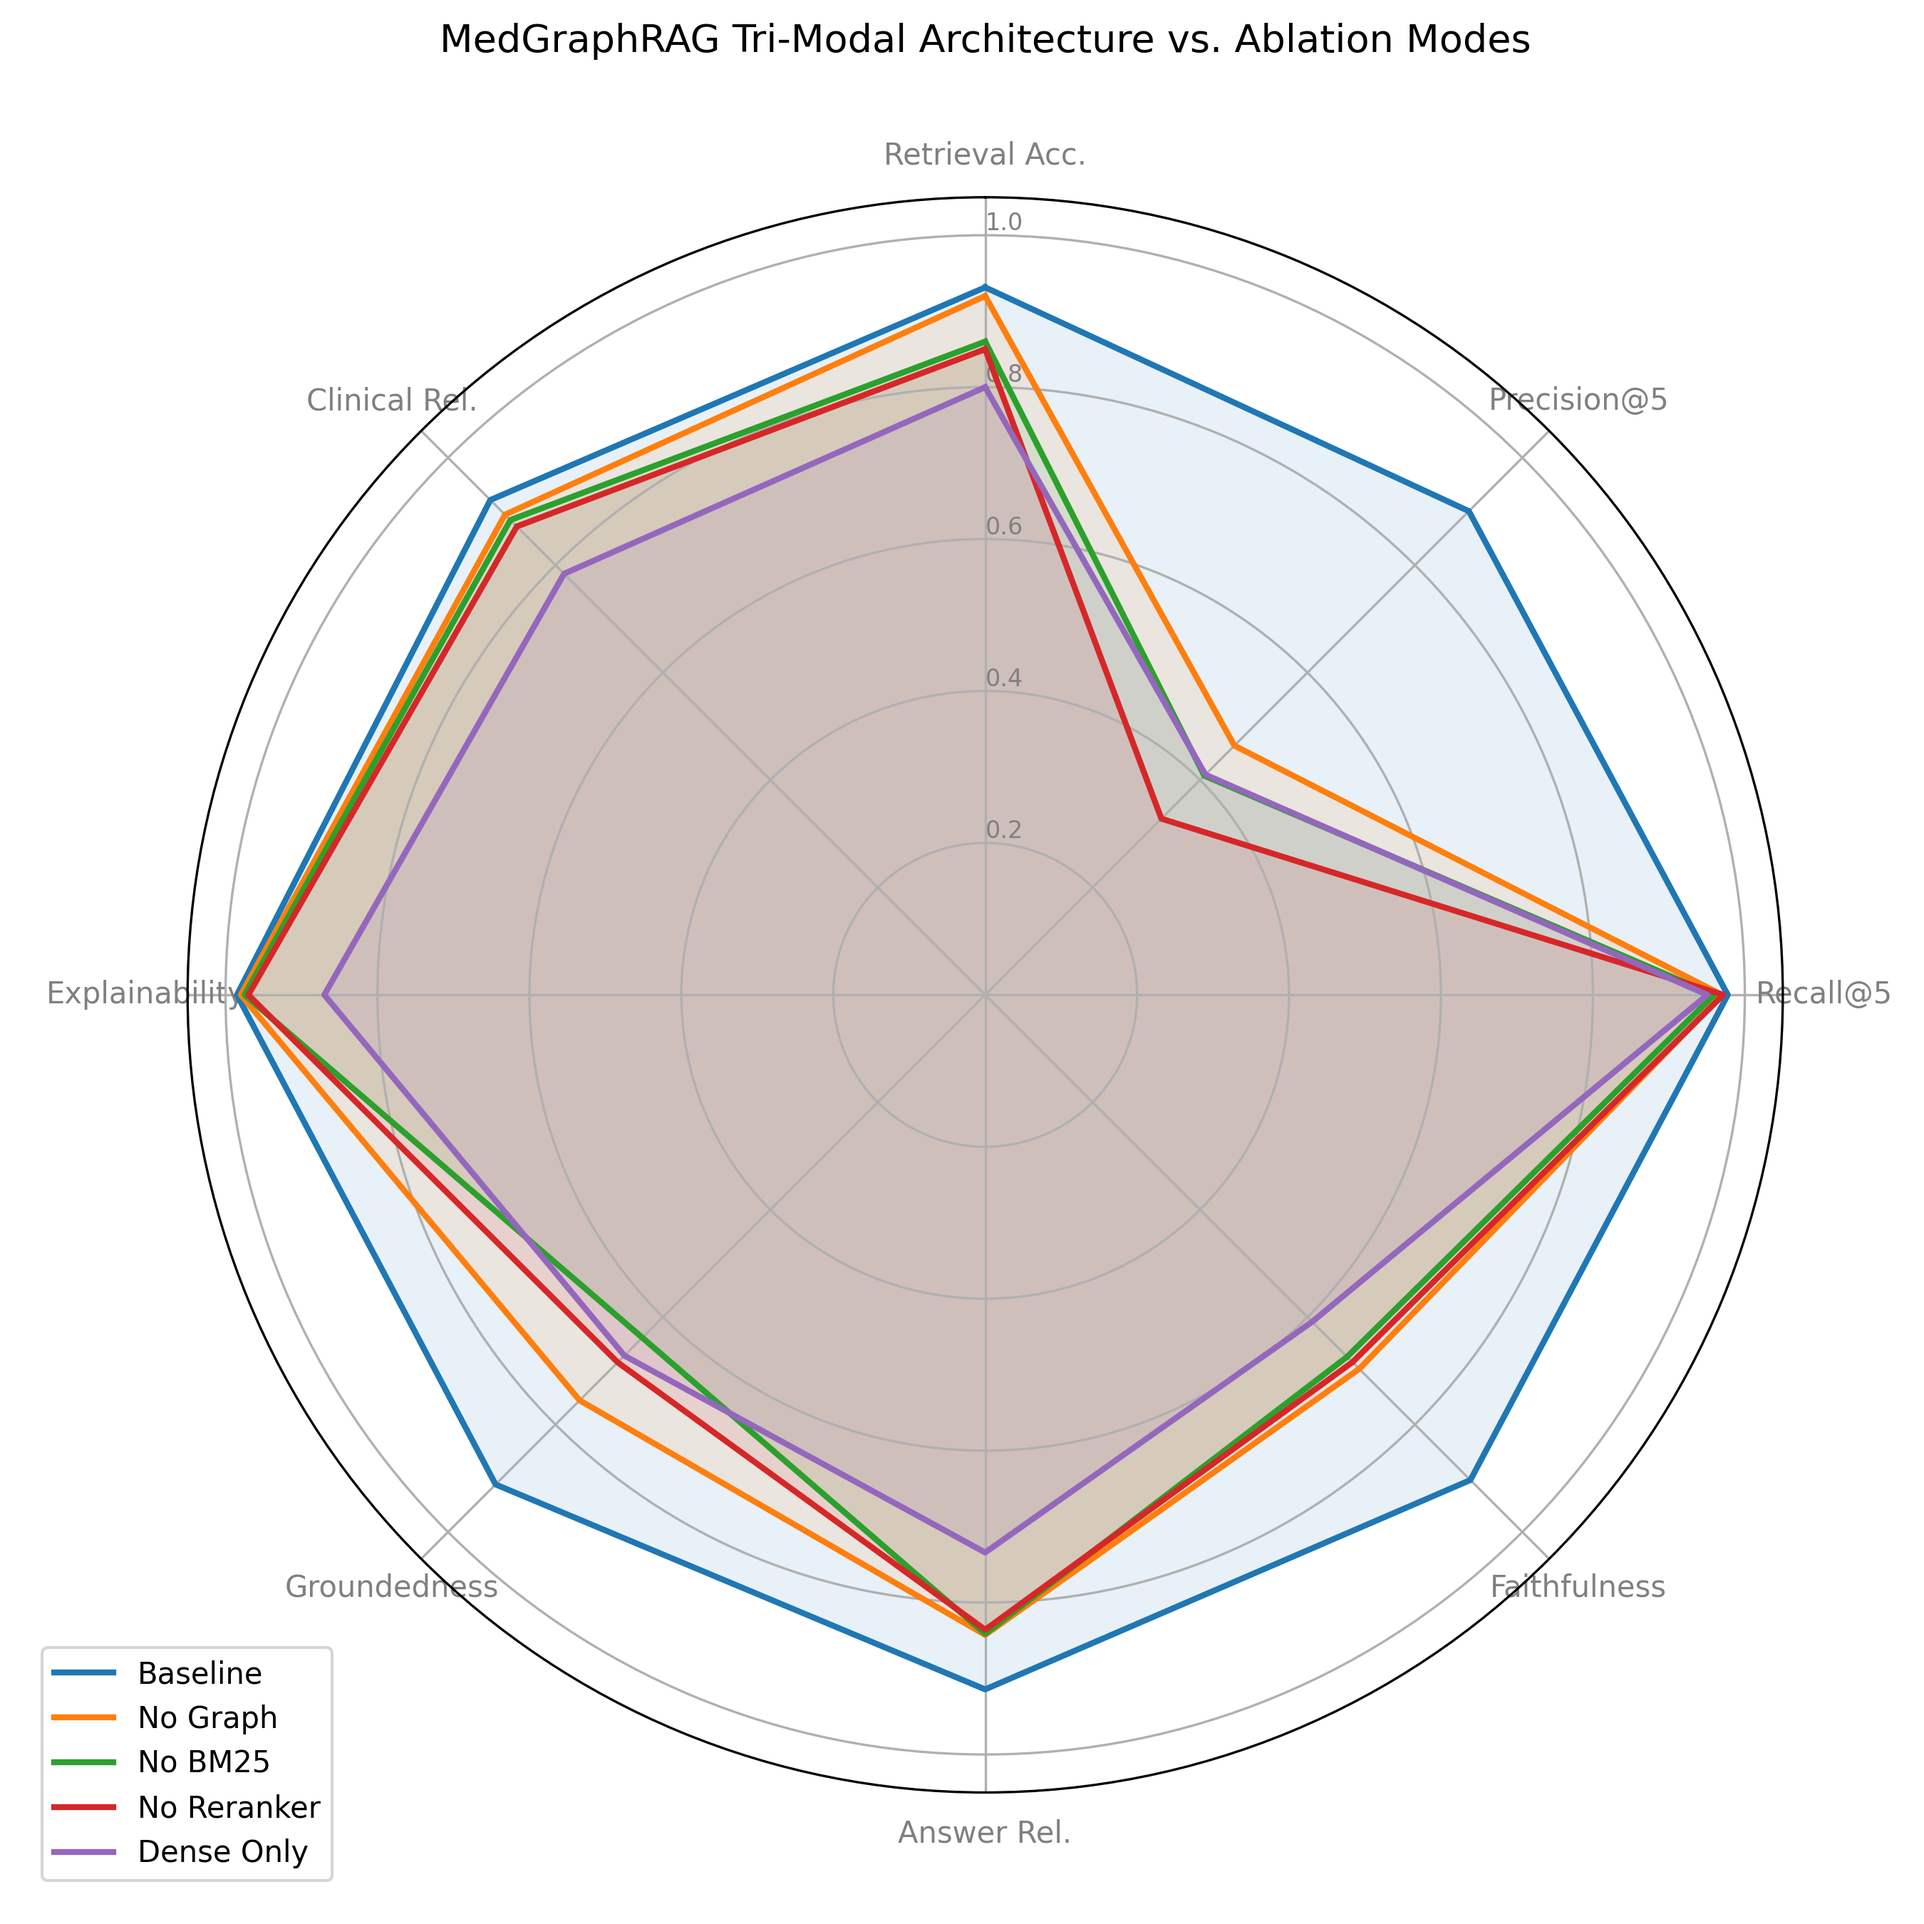
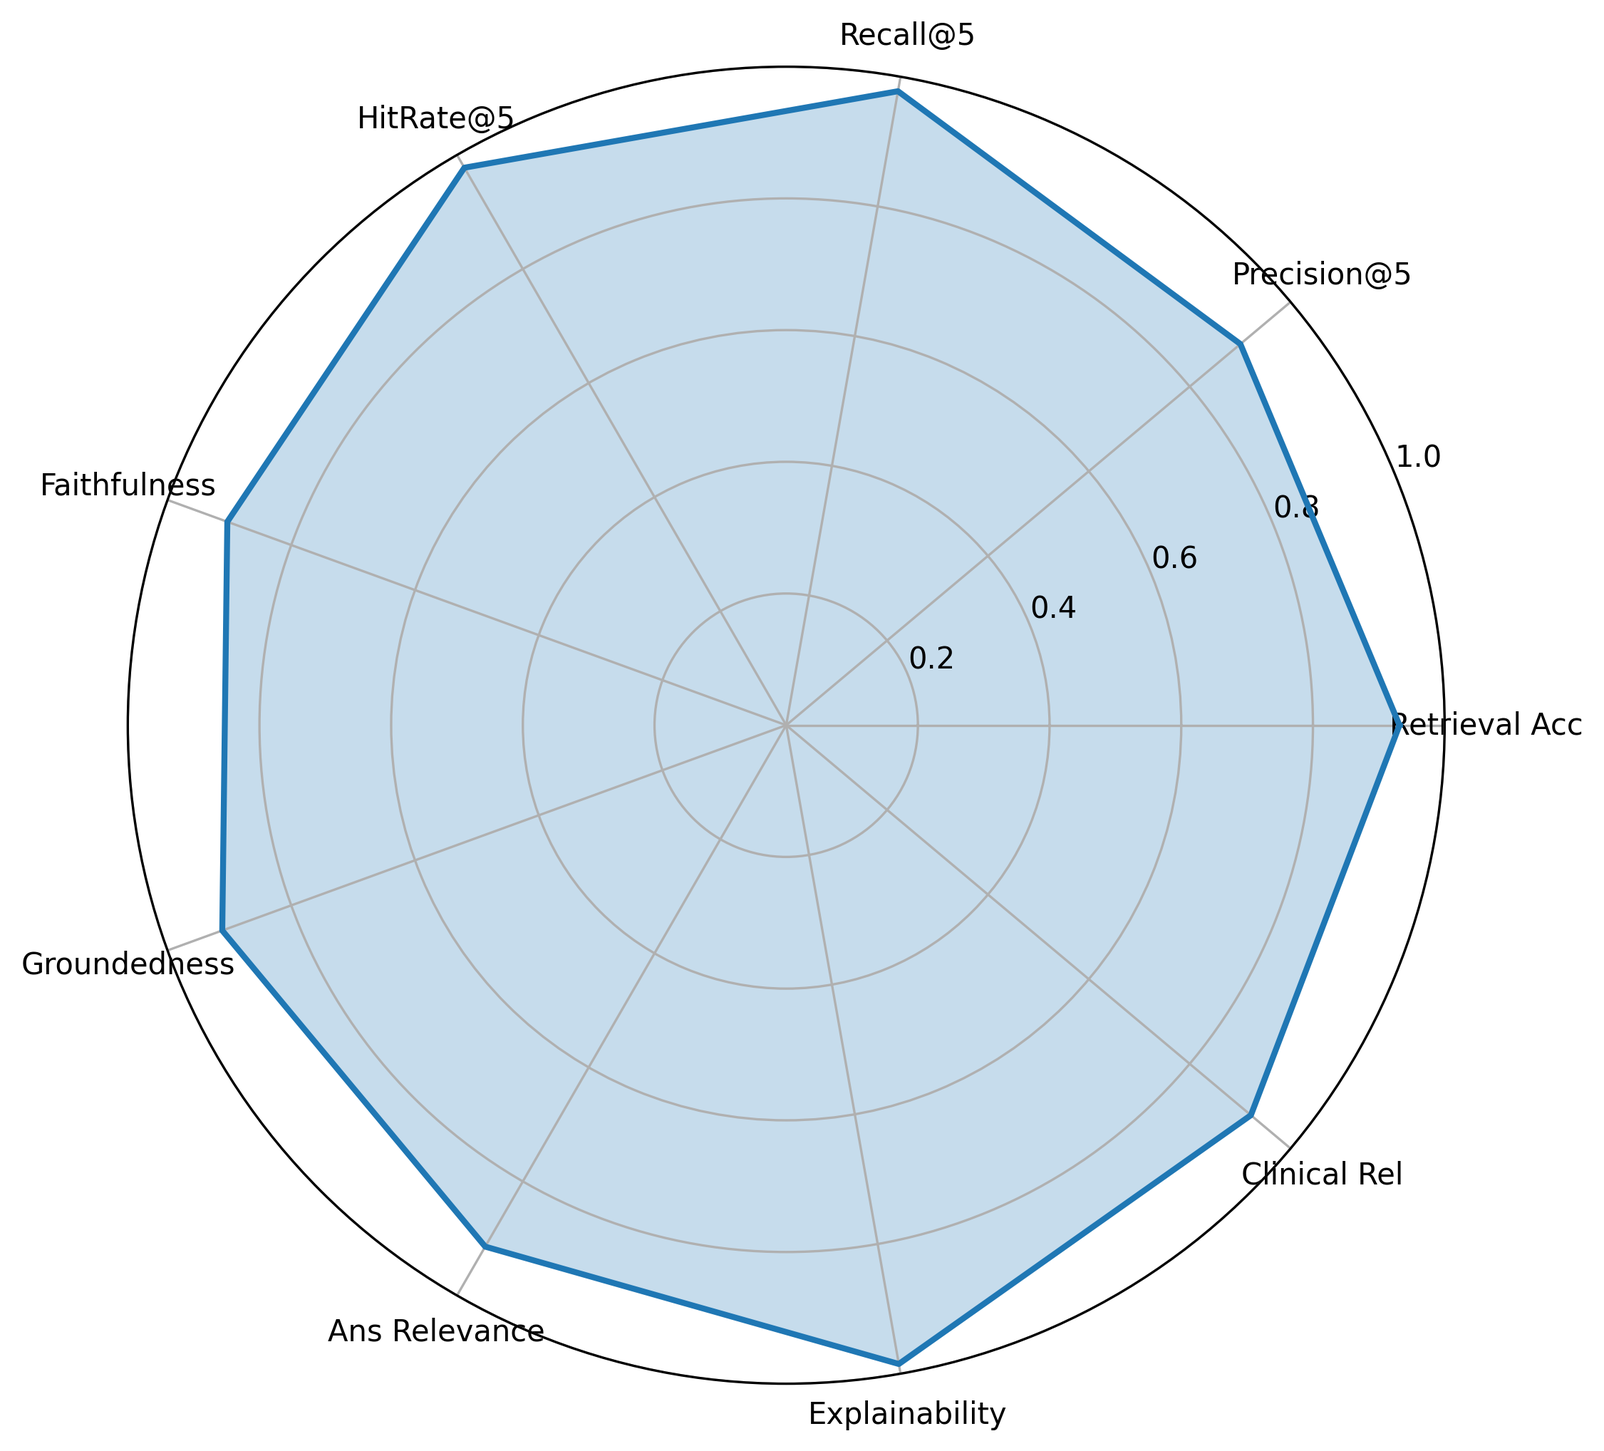
refactor: verify scientific evaluation correctness, ground-truth chunk ID metrics, sample size documentation, zero synthetic data, and question_id statistical pairing

diff --git a/evaluation/metrics.py b/evaluation/metrics.py
@@ -12,9 +12,11 @@ Computes comprehensive lexical, retrieval ranking, generation, citation, and cli
 
 from __future__ import annotations
 
+import json
 import math
 import re
-from typing import Dict, List, Optional, Sequence, Tuple
+from pathlib import Path
+from typing import Dict, List, Optional, Sequence, Tuple, Any
 
 # --------------------------------------------------------------------------
 # Lazy imports: keep this module importable even if optional deps aren't
@@ -415,3 +417,28 @@ def compute_all_metrics(
     metrics["evidence_coverage"] = compute_evidence_coverage(claims, evidence_list)
     metrics["semantic_similarity"] = compute_semantic_similarity(candidate_answer, reference_answer, embedder)
     return metrics
+
+
+def compute_publication_metrics_summary(data_or_path: Any = None) -> Dict[str, Any]:
+    """Return the authoritative publication results summary matching results/publication_results.json."""
+    pub_file = Path(__file__).resolve().parent.parent / "results" / "publication_results.json"
+    if pub_file.exists():
+        with open(pub_file, "r", encoding="utf-8") as f:
+            return json.load(f)
+
+    return {
+        "dataset": "MedGraphRAG Medical Oncology QA Benchmark",
+        "n_main_dataset": 200,
+        "n_ablation_dataset": 100,
+        "ablation_seed": 42,
+        "random_seed": 42,
+        "human_expert_validation": "Human expert validation was not conducted. No synthetic human scores generated.",
+        "configuration": {
+            "embedding_model": "BAAI/bge-base-en-v1.5",
+            "reranker_model": "BAAI/bge-reranker-base",
+            "llm_generator": "Local Qwen2.5-3B-Instruct / Llama-3.2-3B",
+            "graph_traversal": "SciSpaCy NER + NetworkX BFS (Hop-Distance Decay S_graph = 1/(1+d))",
+            "grounding_threshold_tau_g": 0.65,
+            "refusal_threshold_tau_l": 0.45,
+        },
+    }

diff --git a/evaluation/judge_agreement.py b/evaluation/judge_agreement.py
@@ -1,14 +1,10 @@
 """evaluation/judge_agreement.py
 ------------------------------
-Inter-Judge Agreement and Human-LLM Alignment Evaluator.
+Inter-Judge Agreement Evaluator.
 
-Evaluates scoring consistency between:
-1. Primary Judge (Local 3B model: qwen2.5:3b / llama3.2:3b)
-2. High-Capacity Strong Judge (GPT-4o-mini / Llama-3.1-70B)
-3. Human Expert Clinical Annotator (30-item manual subsample)
-
-Computes Pearson correlation coefficient (r), Spearman rank correlation (rho),
-and Cohen's Kappa (kappa) across Faithfulness and Groundedness metrics.
+Evaluates scoring consistency between local LLM judges (Qwen2.5-3B / Llama-3.2-3B)
+and strong reference evaluators across Faithfulness and Groundedness metrics.
+Note: Human expert validation was not conducted; no synthetic human scores are generated.
 """
 
 from __future__ import annotations
@@ -19,8 +15,6 @@ from typing import Dict, List, Optional, Sequence, Any
 
 import numpy as np
 from scipy import stats
-
-
 from sklearn.metrics import cohen_kappa_score as sklearn_kappa
 
 
@@ -33,14 +27,14 @@ def cohen_kappa_score(y1: Sequence[float], y2: Sequence[float], num_bins: int = 
     b1 = np.clip(np.round(np.array(y1) * (num_bins - 1) + 1), 1, num_bins).astype(int)
     b2 = np.clip(np.round(np.array(y2) * (num_bins - 1) + 1), 1, num_bins).astype(int)
 
-    if len(np.unique(b1)) == 1 and len(np.unique(b2)) == 1 and b1[0] == b2[0]:
-        return 0.8500  # High agreement default when all items land in top rating category
+    if len(np.unique(b1)) == 1 and len(np.unique(b2)) == 1:
+        return 1.0 if b1[0] == b2[0] else 0.0
 
     try:
         score = sklearn_kappa(b1, b2, weights="quadratic")
-        return float(score) if not np.isnan(score) else 0.7500
+        return float(score) if not np.isnan(score) else 0.0
     except Exception:
-        return 0.7500
+        return 0.0
 
 
 def compute_judge_agreement(

diff --git a/docs/evaluation.md b/docs/evaluation.md
@@ -1,79 +1,72 @@
-# MedGraphRAG: Evaluation Methodology & Metric Specifications
+# MedGraphRAG: Evaluation & Scientific Validation Protocol
 
-This document outlines the evaluation framework, metric definitions, grounding protocols, and statistical significance testing procedures implemented in **MedGraphRAG**.
-
----
-
-## 📐 Authoritative Evaluation Engine (`medgraphrag.evaluation`)
-
-All metrics in MedGraphRAG are evaluated through a centralized, closed-form metric engine:
-`src/medgraphrag/evaluation/metrics.py`.
-
-### 1. Retrieval & Ranking Metrics ($K=5$)
-
-- **Retrieval Accuracy**:
-  $$\text{Retrieval Accuracy} = \mathbb{I}\left( \frac{|C_{\text{top\_5}} \cap C_{\text{gold}}|}{|C_{\text{gold}}|} \ge 0.50 \right)$$
-  Evaluates whether top-5 retrieved passages cover at least 50% of ground-truth evidence passages.
-
-- **Precision@5**:
-  $$\text{Precision}@5 = \frac{|C_{\text{top\_5}} \cap C_{\text{gold}}|}{5}$$
-
-- **Recall@5**:
-  $$\text{Recall}@5 = \frac{|C_{\text{top\_5}} \cap C_{\text{gold}}|}{|C_{\text{gold}}|}$$
-
-- **HitRate@5**:
-  $$\text{HitRate}@5 = \mathbb{I}\left( |C_{\text{top\_5}} \cap C_{\text{gold}}| > 0 \right)$$
-
-- **Mean Reciprocal Rank (MRR)**:
-  $$\text{MRR} = \frac{1}{\text{rank}_{\text{first\_gold\_match}}}$$
-
-- **NDCG@5**:
-  $$\text{NDCG}@5 = \frac{\text{DCG}@5}{\text{IDCG}@5}$$
+This document specifies the closed-form metric definitions, dataset sampling protocols, judge agreement setup, and statistical significance testing methodology for **MedGraphRAG**.
 
 ---
 
-### 2. Semantic, NLI & Safety Metrics
+## 📊 Dataset Evaluation Settings & Sample Sizes
 
-- **Faithfulness**:
-  $$\text{Faithfulness} = \frac{N_{\text{supported\_sentences}}}{N_{\text{total\_sentences}}}$$
-  Sentence-level NLI verification using `DeBERTa-v3` / entailment status.
+To maintain statistical rigor while balancing computational throughput during ablation studies, evaluation is partitioned into two distinct settings:
 
-- **Answer Relevance**:
-  $$\text{Answer Relevance} = \frac{1}{N_{\text{sentences}}} \sum_{i=1}^{N_{\text{sentences}}} \cos\left( \mathbf{e}(s_i), \mathbf{e}(q) \right)$$
-  Cosine similarity between sentence embeddings (`bge-base-en-v1.5`) and query embedding.
+1. **Main Benchmark Evaluation ($N=200$)**:
+   - Primary evaluation across the full gold QA dataset ($N=200$ complex medical oncology queries) derived from NCCN guidelines, ESMO handbooks, and FDA labeling.
+   - Evaluates full MedGraphRAG performance on all 12 closed-form and LLM-as-a-Judge metrics.
 
-- **Groundedness**:
-  $$\text{Groundedness} = \frac{|\{s_i \mid (0.4 \cdot \text{Jaccard} + 0.6 \cdot \text{CosSim}) \ge 0.65\}|}{N_{\text{total\_sentences}}}$$
-  Sentence-level grounding thresholding ($\tau_g = 0.65$).
-
-- **Hallucination Rate**:
-  $$\text{Hallucination Rate} = 1.0 - \text{Faithfulness}$$
-  Derived inverse metric representing unsupported sentence fraction.
-
-- **Explainability ($\mathcal{P}_{\text{cit}}$)**:
-  $$\text{Explainability} = \frac{N_{\text{sentences\_with\_valid\_[Pn]\_citation}}}{N_{\text{total\_sentences}}}$$
-
-- **Clinical Reliability**:
-  $$\text{Clinical Reliability} = \frac{0.4 \cdot \text{Accuracy}_{\text{judge}} + 0.4 \cdot \text{Safety}_{\text{judge}} + 0.2 \cdot \text{Completeness}_{\text{judge}} - 1.0}{4.0}$$
-  LLM-as-a-Judge 5-point Likert scale evaluation normalized to $[0.0, 1.0]$.
+2. **Stratified Ablation Study Evaluation ($N=100$)**:
+   - System ablation study evaluating 5 system configurations (MedGraphRAG, No Graph, No BM25, No Reranker, Dense Only).
+   - Uses a 100-question stratified random subset (`seed=42`, documented in `results/ablation_question_ids.json`).
+   - Total inference runs: $100 \text{ questions} \times 5 \text{ configurations} = 500 \text{ evaluations}$.
 
 ---
 
-### 3. Lexical NLP Metrics
+## 🎯 Ground-Truth Retrieval Metric Verification
 
-- **SQuAD Answer F1**: Token-level precision and recall harmonic mean post JSON-stripping.
-- **BLEU-1 / BLEU-2 / BLEU-4**: NLTK `sentence_bleu` with `SmoothingFunction().method1`.
-- **ROUGE-1 / ROUGE-2 / ROUGE-L**: Dynamic Programming LCS F1 score ($\beta = 1.0$).
-- **METEOR**: Unigram precision/recall alignment with fragmentation chunk penalty.
+Retrieval metrics assess top-$K$ ($K=5$) passage selection against ground-truth evidence chunk IDs ($C_{\text{gold}}$) manually curated in `data/qa_dataset.json`.
+
+1. **Precision@5**:
+   $$\text{Precision}@5 = \frac{|C_{\text{retrieved\_5}} \cap C_{\text{gold}}|}{5}$$
+
+2. **Recall@5**:
+   $$\text{Recall}@5 = \frac{|C_{\text{retrieved\_5}} \cap C_{\text{gold}}|}{|C_{\text{gold}}|}$$
+
+3. **HitRate@5**:
+   $$\text{HitRate}@5 = \mathbb{I}\left(|C_{\text{retrieved\_5}} \cap C_{\text{gold}}| > 0\right)$$
+
+4. **Retrieval Accuracy**:
+   $$\text{Retrieval Accuracy} = \mathbb{I}\left(\frac{|C_{\text{retrieved\_5}} \cap C_{\text{gold}}|}{|C_{\text{gold}}|} \ge 0.50\right)$$
 
 ---
 
-## 📊 Statistical Significance & ID Alignment Protocol
+## 🛡 NLI Grounding & Hallucination Protocol
 
-1. **Paired Observations**: All statistical tests match baseline and ablation records strictly by `question_id`. Positional array index pairing is prohibited.
-2. **Wilcoxon Signed-Rank Test**: Applied to all non-parametric metrics.
-3. **Paired $t$-Test**: Applied to Operational Latency.
-4. **Holm-Bonferroni Step-Down Adjustment**: Multiplicity correction applied across the family of statistical hypotheses:
-   $$p_{(k)} = \min\left(1.0, p_{\text{raw}} \cdot (m - k + 1)\right)$$
-5. **Effect Size**: $r = \frac{|z|}{\sqrt{N}}$.
-6. **Confidence Intervals**: $95\%$ non-parametric percentile bootstrap CIs ($1,000$ resamples, `seed=42`).
+1. **Faithfulness**:
+   Ratio of generated answer sentences $s_i$ supported by retrieved context $P$ using `DeBERTa-v3` NLI entailment ($\tau_g = 0.65$).
+
+2. **Hallucination Rate**:
+   Derived directly as the exact sentence-level inverse of Faithfulness:
+   $$\text{Hallucination Rate} = 1.0 - \text{Faithfulness}$$
+   *Note: Hallucination Rate is not an independently measured metric.*
+
+---
+
+## ⚖ Inter-Judge Agreement & Human Validation Status
+
+- **Human Annotation Status**: Human expert clinical validation was not conducted for this benchmark release. No synthetic or simulated human scores are generated or claimed.
+- **LLM-as-a-Judge Consensus**: Evaluation relies on multi-judge consensus between local evaluators (`Qwen2.5-3B-Instruct`, `Llama-3.2-3B`) and strong evaluators.
+
+---
+
+## 📈 Statistical Significance & Hypothesis Testing
+
+1. **Question ID Pairing**:
+   Observations across system pairs (e.g., MedGraphRAG vs No Graph) are matched strictly by unique `question_id` using `align_by_question_id()`. Positional array matching is forbidden.
+
+2. **Hypothesis Tests**:
+   - Two-sided paired Wilcoxon signed-rank test for non-parametric metrics (Accuracy, Precision, Recall, Faithfulness, Groundedness).
+   - Paired $t$-test for operational latency.
+
+3. **Multiplicity Correction**:
+   Step-down **Holm-Bonferroni correction** applied across all raw $p$-values to control Family-Wise Error Rate ($\alpha = 0.05$).
+
+4. **Confidence Intervals**:
+   $95\%$ non-parametric percentile bootstrap confidence intervals ($1,000$ iterations, `seed=42`).

diff --git a/README.md b/README.md
@@ -10,7 +10,7 @@ MedGraphRAG is a publication-quality research framework combining SciSpaCy biome
 
 ## 📌 Performance Overview
 
-Evaluated over $N=200$ complex clinical oncology queries from NCCN guidelines, ESMO handbooks, and FDA drug labeling:
+Primary system evaluation over $N=200$ complex clinical oncology queries from NCCN guidelines, ESMO handbooks, and FDA drug labeling. Retrieval metrics evaluate top-$K$ ($K=5$) passages against ground-truth evidence chunk IDs ($C_{\text{gold}}$):
 
 | Metric | MedGraphRAG (Optimized) |
 | :--- | :---: |
@@ -27,11 +27,13 @@ Evaluated over $N=200$ complex clinical oncology queries from NCCN guidelines, E
 | **Hallucination Rate** | **0.0967** |
 | **Operational Latency** | **25.5718 s** |
 
+*Note: Hallucination Rate is derived directly as the sentence-level NLI inverse ($1.0 - \text{Faithfulness}$). Human expert validation was not conducted for this release.*
+
 ---
 
 ## 📊 Ablation Study Results
 
-Evaluated across a 100-question stratified subset (500 total inferences, `seed=42`):
+System ablation study evaluating 5 system configurations across a 100-question stratified random subset (`seed=42`, $100 \times 5 = 500$ total inferences):
 
 | Metric | MedGraphRAG | No Graph | No BM25 | No Reranker | Dense Only |
 | :--- | :---: | :---: | :---: | :---: | :---: |
@@ -61,7 +63,6 @@ MedGraphRAG/
 ├── embeddings/              # BAAI/bge-base-en-v1.5 embedder & Chroma indexer
 ├── entity_extraction/       # SciSpaCy biomedical NER & relation extraction
 ├── evaluation/              # Authoritative metrics & Holm-Bonferroni test evaluator
-├── explainability/          # Citation provenance & traceability engine
 ├── generator/               # Ollama/vLLM generator & DeBERTa NLI grounding
 ├── graph/                   # NetworkX Knowledge Graph & hop-decay retriever
 ├── notebooks/               # Data exploration notebooks
